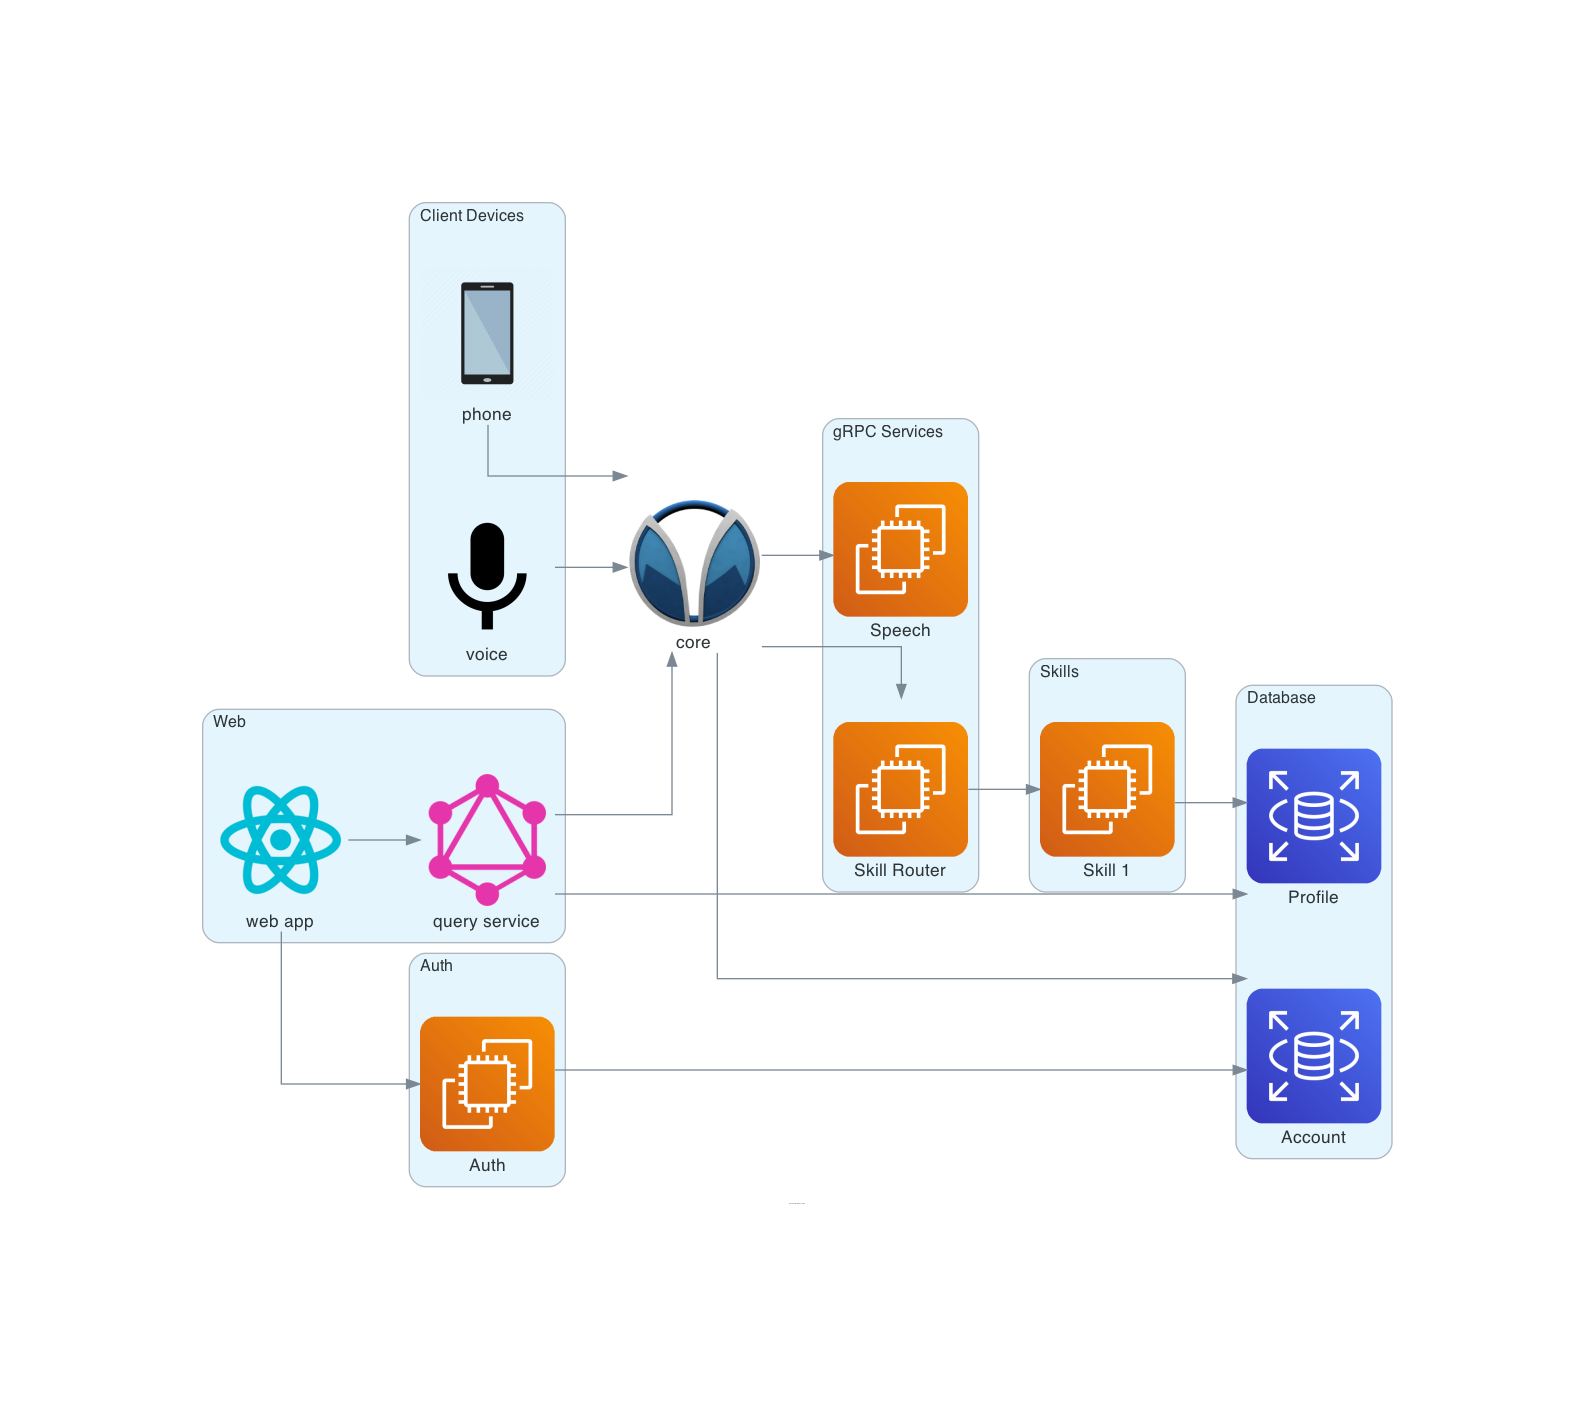
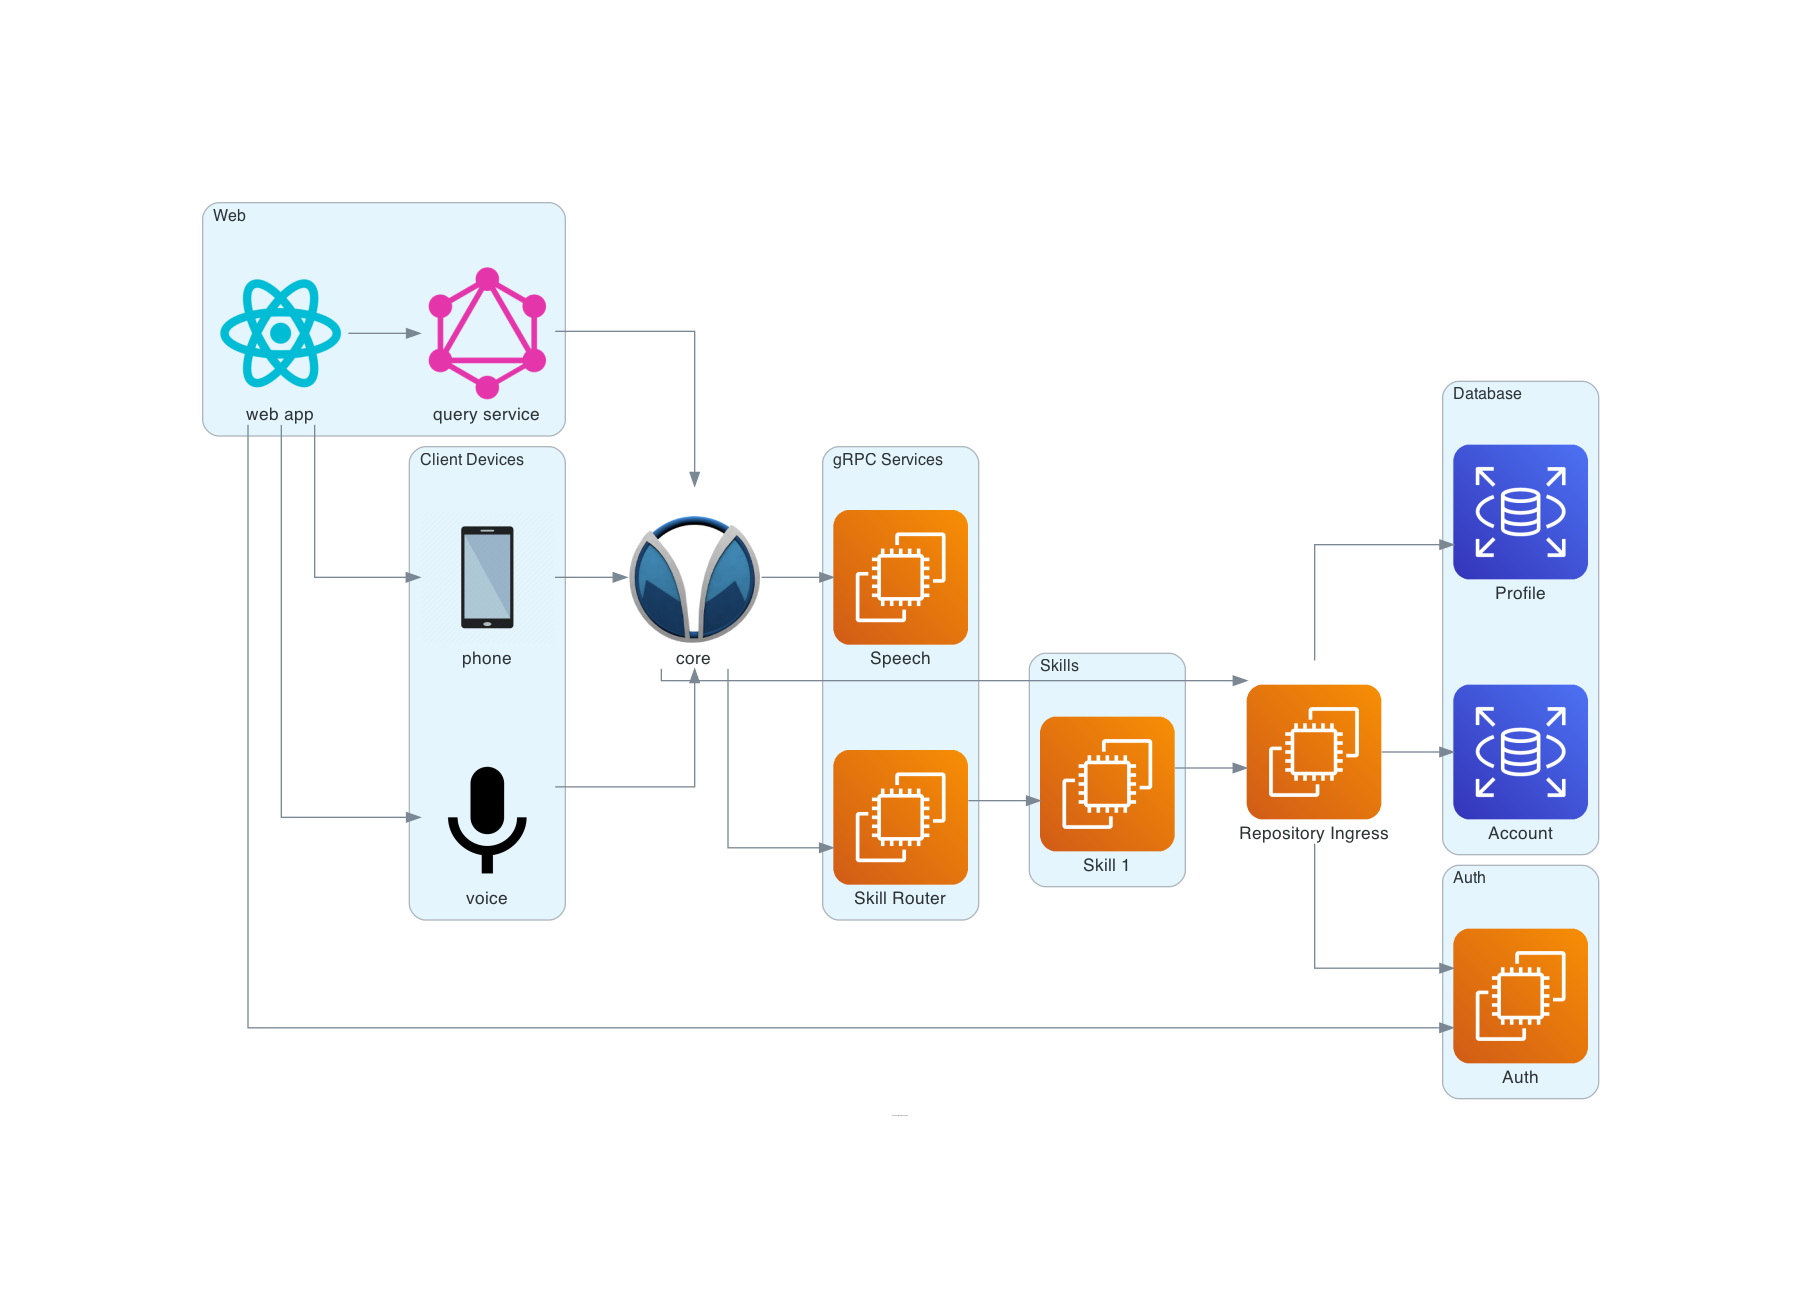
mono repo mirror commit

Changed region(s): [[0.0922, 0.1249, 0.8909, 0.8743]]

diff --git a/diagrams/generate.py b/diagrams/generate.py
@@ -42,19 +42,26 @@ with Diagram(name="Orva Architecture Overview", show=False, graph_attr=graph_att
         ]
         devices >> core
 
+    with Cluster("Auth"):
+        auth = EC2("Auth")
+
+    resository_ingress = EC2("Repository Ingress")
     with Cluster("Database"):
-        profile_db = RDS("Profile")
-        account = RDS("Account")
+        resository_ingress >> [
+            RDS("Profile"),
+            RDS("Account"),
+            auth,
+        ]
         core >> [
-            account,
+            resository_ingress,
         ]
 
     with Cluster("Skills"):
         sk_1 = EC2("Skill 1")
         skills = [
             sk_1,
-        ] >> profile_db
-        
+        ] >> resository_ingress
+
     with Cluster("gRPC Services"):
         skill = EC2("Skill Router")
         core >> [
@@ -62,17 +69,11 @@ with Diagram(name="Orva Architecture Overview", show=False, graph_attr=graph_att
         ]
         core >> skill >> sk_1
 
-    with Cluster("Auth"):
-        auth = EC2("Auth")
-
-        auth >> account
-
     with Cluster("Web"):
         web = React("web app")
-        
+
         web >> Custom("query service", graphql_icon) >> [
             core,
-            profile_db
         ]
+        web >> devices
         web >> auth
-    
